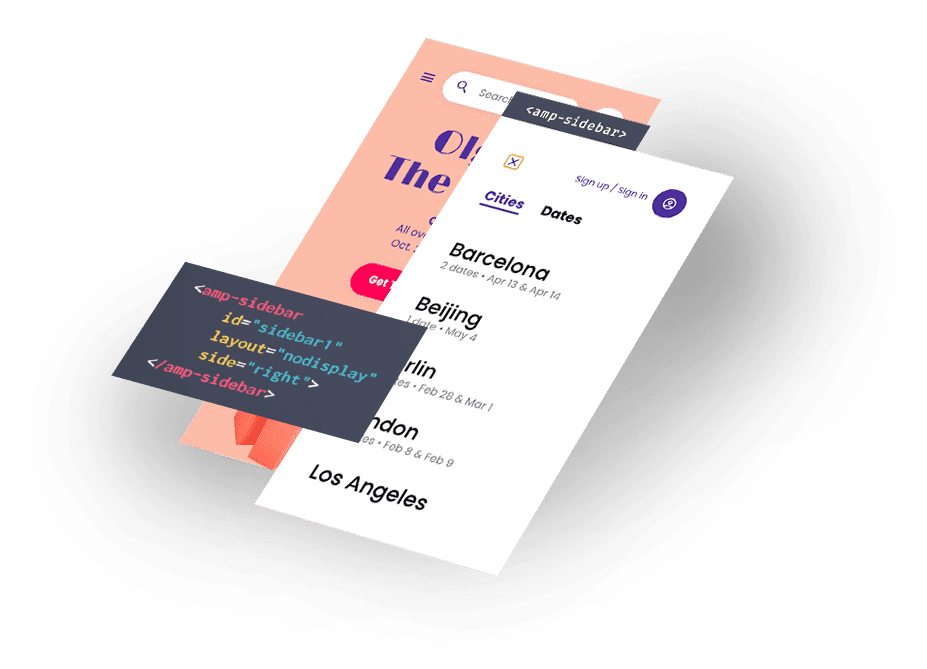
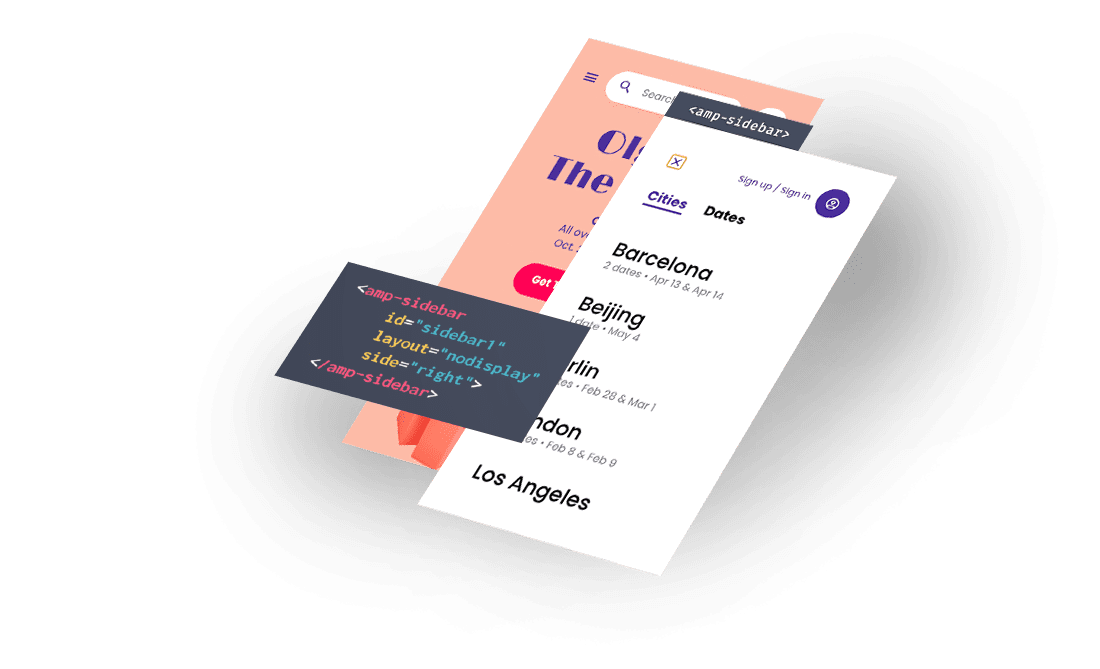
💄 frontend 2021 visual qa fixes #2 (#5983)
* :lipstick: Update stage image

* :lipstick: Reduce opacity of teaser images

* :bug: Use next bigger image for blog-posts

* :lipstick: Decrease spacing

Changed region(s): [[0.1208, 0.0598, 0.8155, 0.867], [0.5739, 0.5979, 0.6041, 0.6278]]

diff --git a/frontend21/scss/components/content/stage.scss b/frontend21/scss/components/content/stage.scss
@@ -56,23 +56,32 @@
     }
 
     @include respond-to('small') {
-      grid-column: 8 / -1;
+      top: 20%;
       padding-top: var(--spacing);
       padding-bottom: unset;
       margin-bottom: calc(-1 * var(--spacing));
-      width: 927px;
+      width: 1100px;
       height: 669px;
     }
 
+    @include respond-to('medium') {
+      top: 0;
+      grid-column: 6 / -1;
+    }
+
     @include respond-to('large') {
-      grid-column: 12 / -1;
+      grid-column: 9 / -1;
+    }
+
+    @include respond-to('max') {
+      grid-column: 11 / -1;
     }
   }
 
   &-backdrop {
     display: none;
 
-    @include respond-to('small') {
+    @include respond-to('medium') {
       display: block;
       grid-row: 1;
       grid-column: 14 / -1;

diff --git a/platform/lib/templates/ImportBlogFilter.js b/platform/lib/templates/ImportBlogFilter.js
@@ -47,7 +47,7 @@ async function importBlog(value, callback) {
     if (mediaDetails && !mediaDetails.file.endsWith(DEFAULT_IMG)) {
       // Mount image URLs to the virtual static directory
       imageUrl = `${REMOTE_STATIC_MOUNT}?url=${encodeURIComponent(
-        mediaDetails.sizes.medium.source_url
+        mediaDetails.sizes.medium_large.source_url
       )}`;
     }
 

diff --git a/frontend21/scss/components/content/teaser.scss b/frontend21/scss/components/content/teaser.scss
@@ -39,6 +39,7 @@
     &-image {
       position: relative;
       height: 220px;
+      filter: brightness(97%);
 
       amp-img img {
         object-fit: cover;

diff --git a/frontend21/scss/components/home/home-stage.scss b/frontend21/scss/components/home/home-stage.scss
@@ -12,7 +12,7 @@
 
   @include respond-to('medium') {
     --spacing: 100px;
-
+    padding: var(--spacing) 0 60px;
     text-align: left;
   }
 
